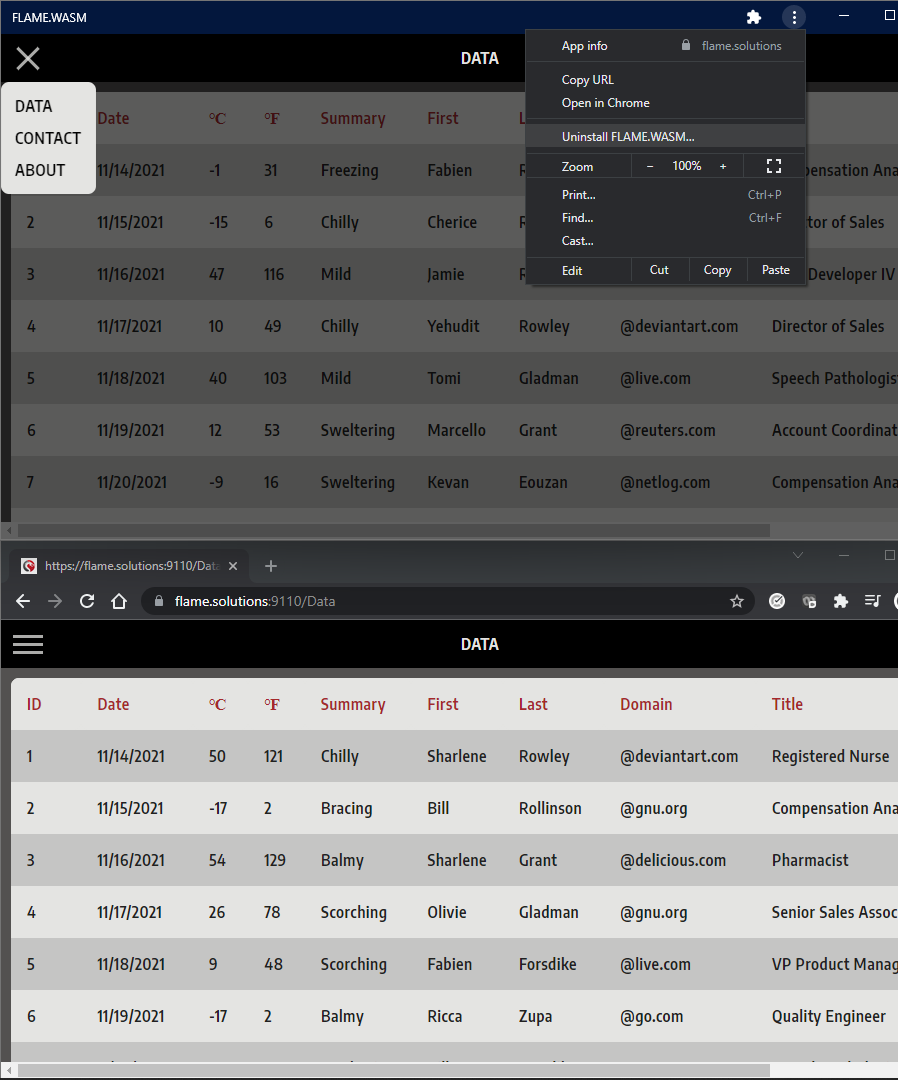
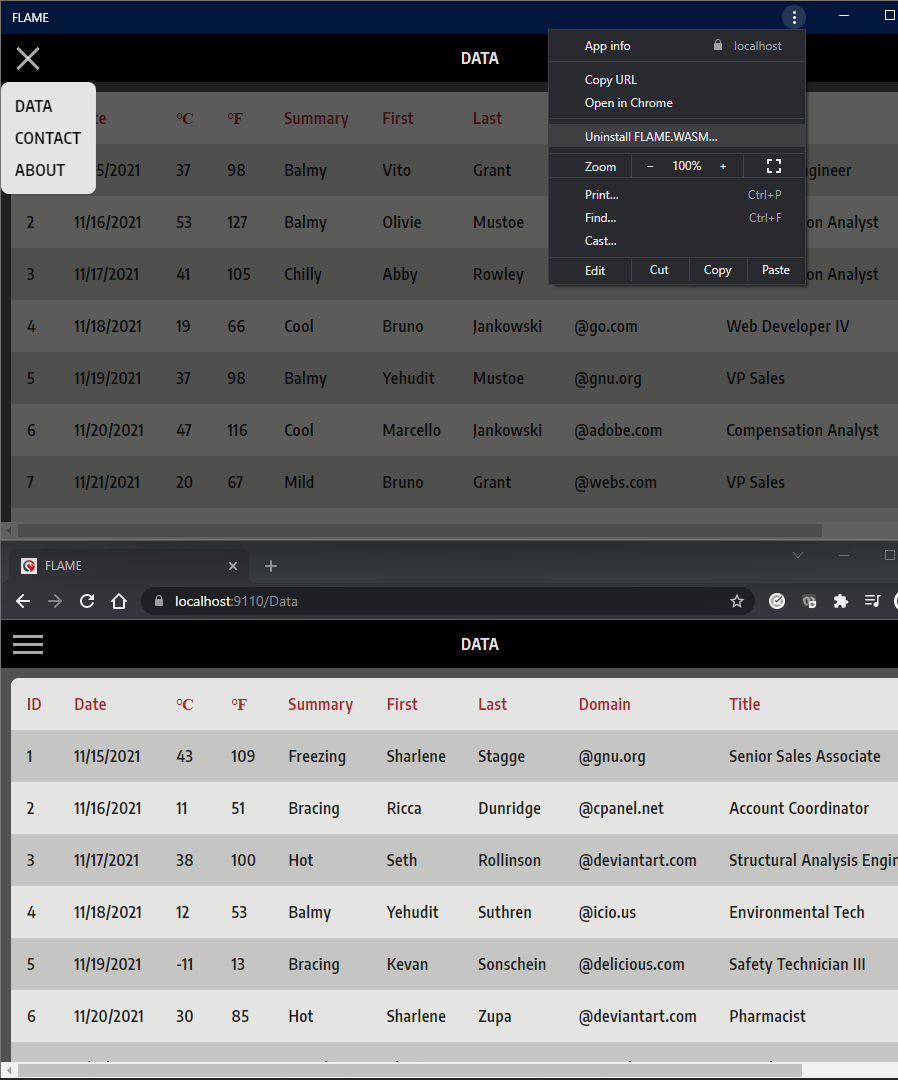
Optimize UI.

diff --git a/FLAME.WASM/Client/wwwroot/index.html b/FLAME.WASM/Client/wwwroot/index.html
@@ -4,7 +4,7 @@
 <head>
     <meta charset="utf-8" />
     <meta name="viewport" content="width=device-width, initial-scale=1.0, maximum-scale=1.0, user-scalable=no" />
-    <title>FLAME.WASM</title>
+    <title>FLAME</title>
 
     <meta name="apple-mobile-web-app-title" content="FLAME">
     <link rel="apple-touch-icon" sizes="200x200" href="Logo.png" />

diff --git a/FLAME.WASM/Client/wwwroot/css/spinner.css b/FLAME.WASM/Client/wwwroot/css/spinner.css
@@ -7,7 +7,6 @@
     .spinner > div {
         width: 18px;
         height: 18px;
-        background-color: #007BFF;
         background-color: #A5282C;
         border-radius: 100%;
         display: inline-block;

diff --git a/FLAME.WASM/Server/Controllers/Table.cs b/FLAME.WASM/Server/Controllers/Table.cs
@@ -60,7 +60,7 @@ namespace FLAME.WASM.Server.Controllers
         {
             var rng = new Random();
 
-            return Enumerable.Range(1, 10).Select(index => new Record
+            return Enumerable.Range(1, 17).Select(index => new Record
             {
                 ID = index,
                 Date = DateTime.Now.AddDays(index),
